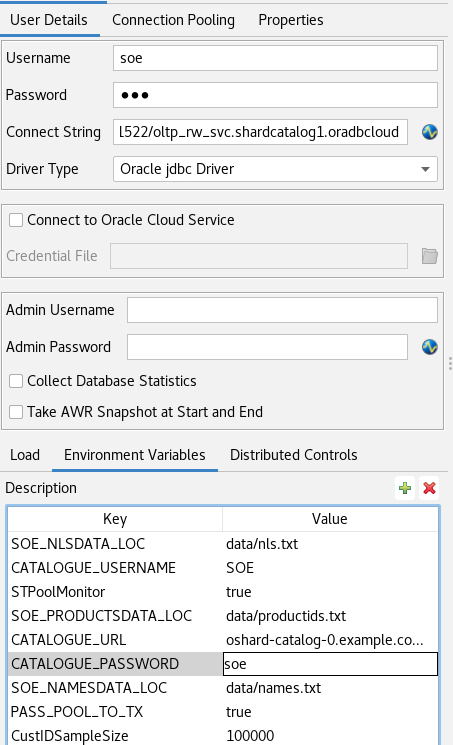
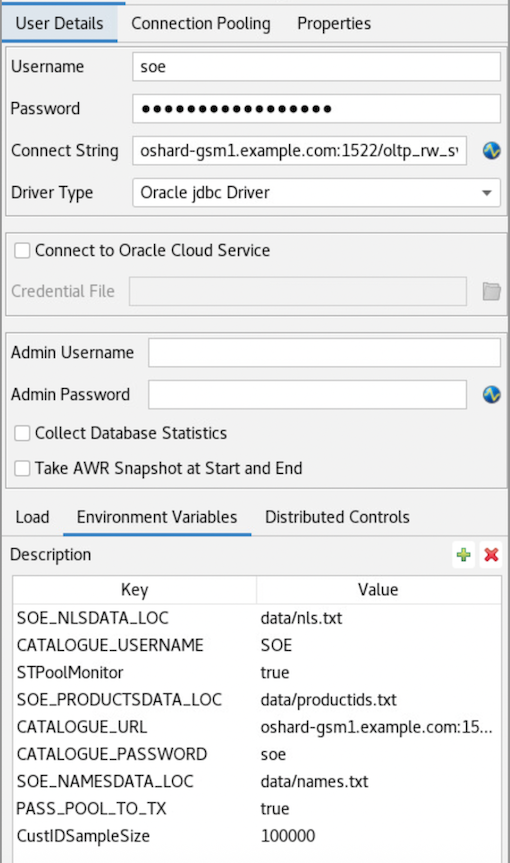
url change

Changed region(s): [[0.0, 0.0, 1.0, 1.0]]

diff --git a/container-based-sharding-deployment/samples/compose-files/podman-compose/workload_test.md b/container-based-sharding-deployment/samples/compose-files/podman-compose/workload_test.md
@@ -171,7 +171,7 @@ SOE_NLSDATA_LOC: data/nls.txt
 CATALOGUE_USERNAME: SOE
 STPoolMonitor: true
 SOE_PRODUCTSDATA_LOC: data/productids.txt
-CATALOGUE_URL: oshard-catalog-0.example.com:1521/GDS$CATALOG.oradbcloud
+CATALOGUE_URL: oshard-gsm1.example.com:1522/GDS$CATALOG.oradbcloud
 CATALOGUE_PASSWORD: soe
 SOE_NAMESDATA_LOC: data/names.txt
 PASS_POOL_TO_TX: true
